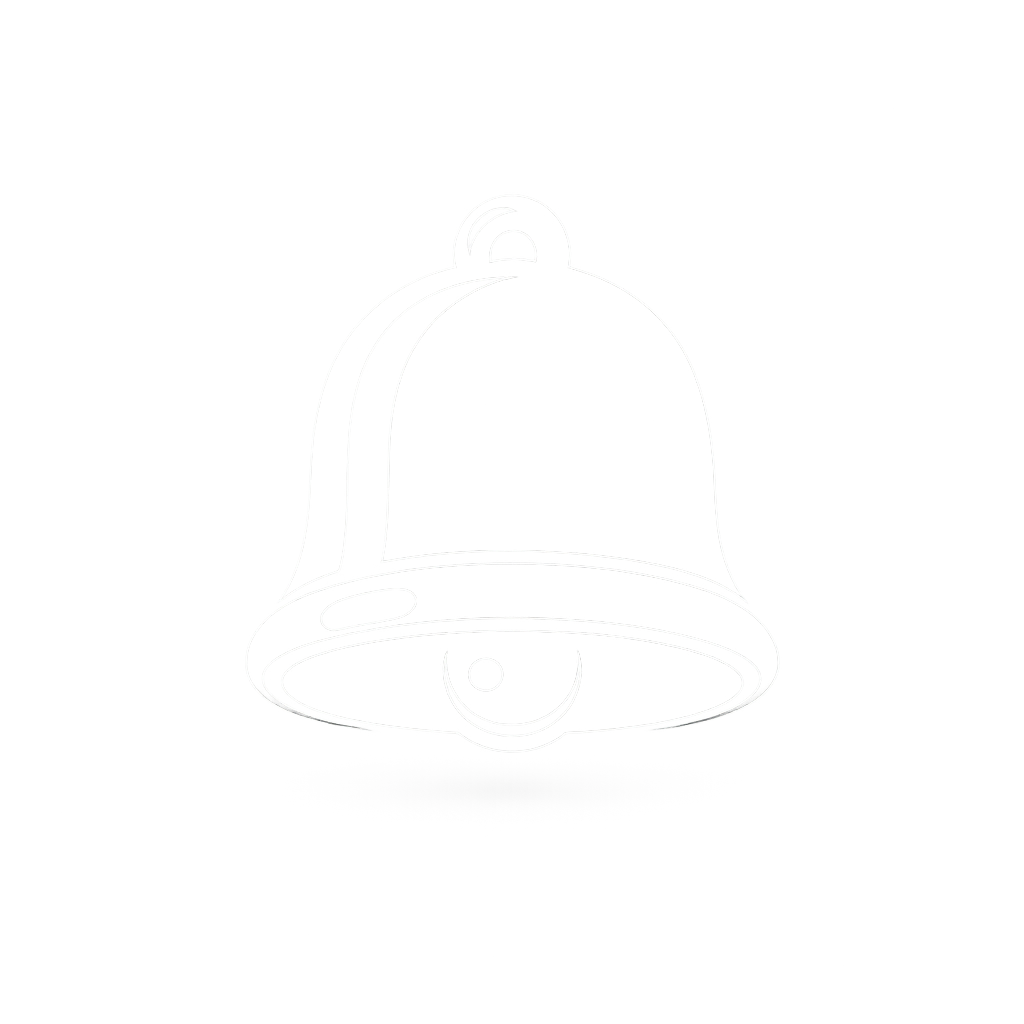
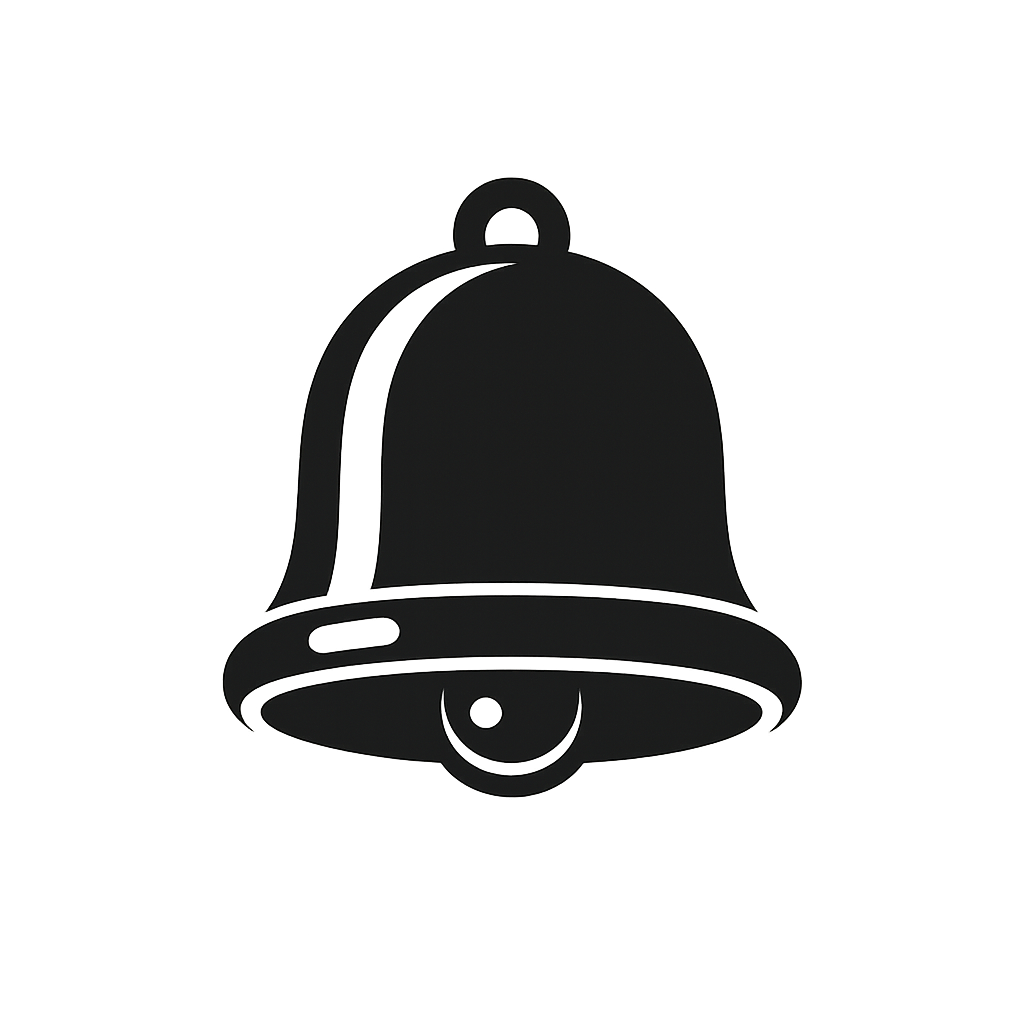
Add files via upload

Changed region(s): [[0.2188, 0.1562, 0.7812, 0.7812]]

diff --git a/service-worker.js b/service-worker.js
@@ -1,4 +1,4 @@
-const cacheName = "sherif-app-v56";
+const cacheName = "sherif-app-v57";
 const appShell = [
   "./",
   "./index.html",